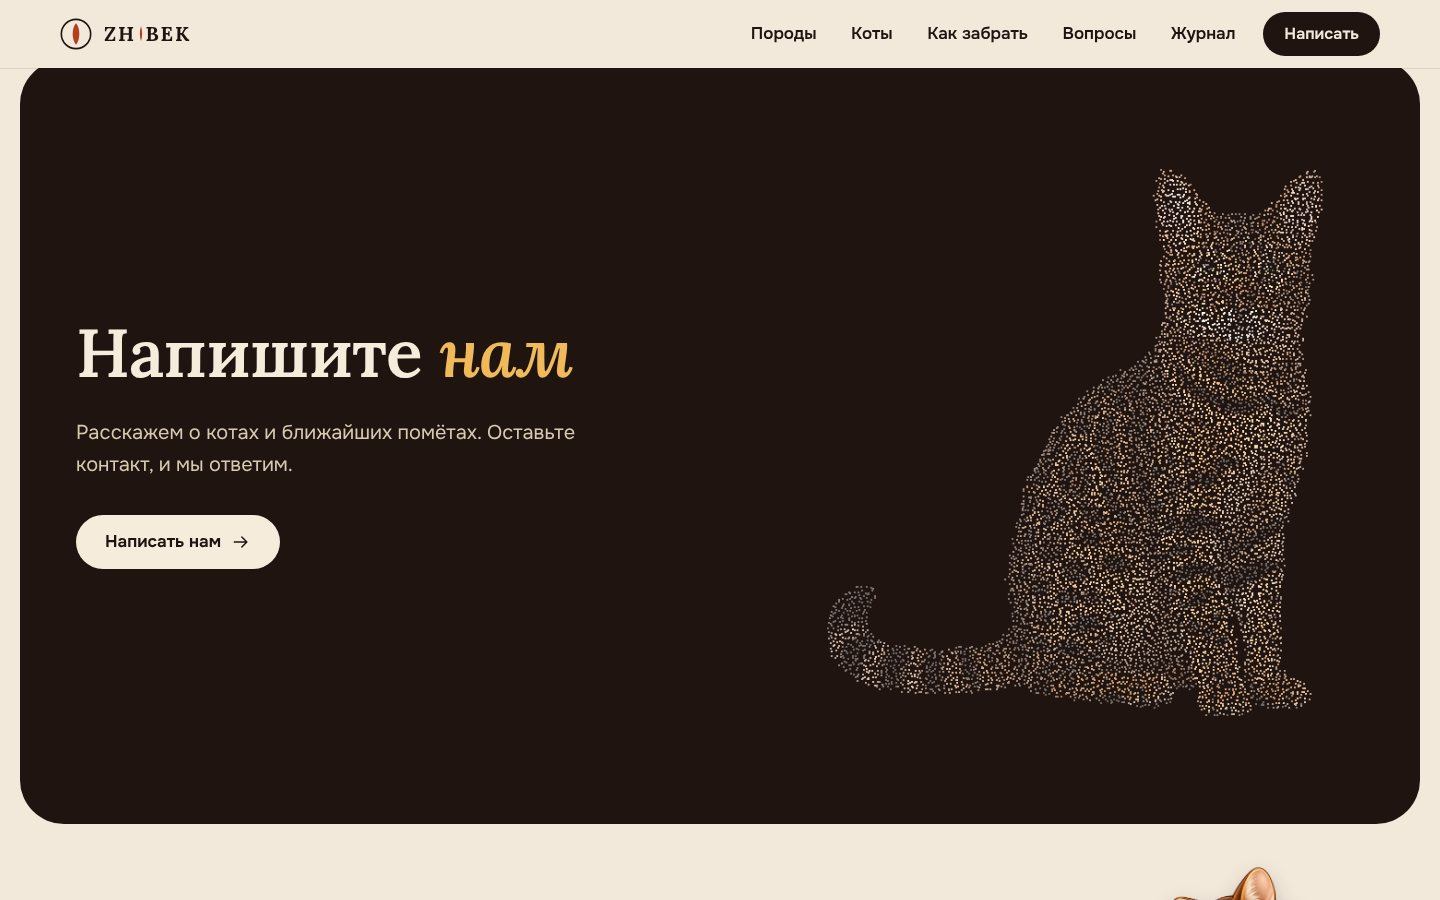
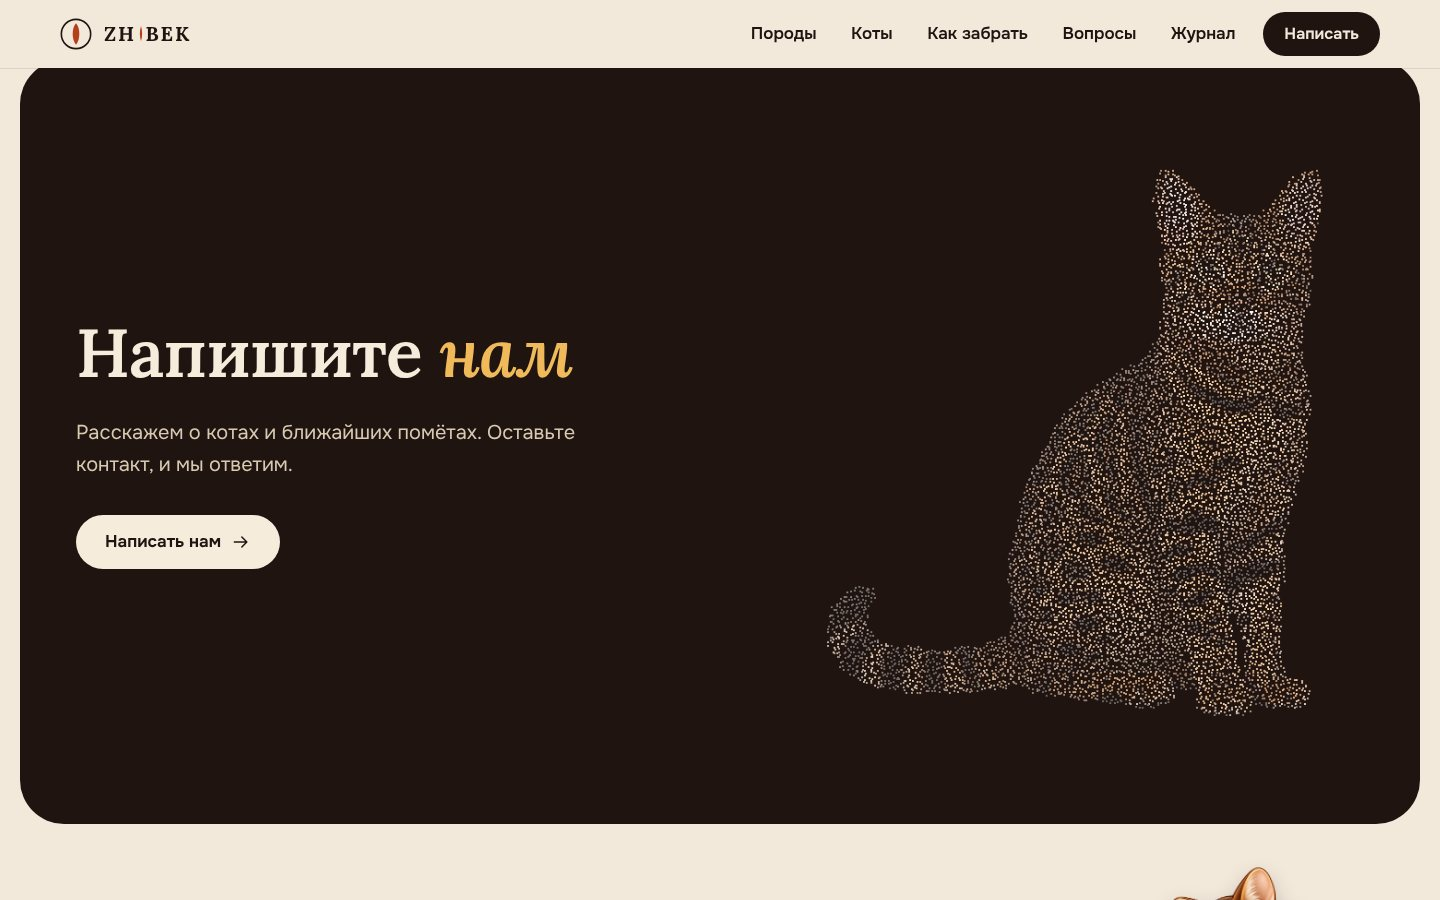
v5.3.1: сцена «Знакомьтесь: бенгал» компактнее
- панель сцены ограничена по высоте (до 660 px на десктопе) и центрируется в окне
- кадр с котом обрезан по коту, кот крупнее, пометки идут над ним
- прогресс анимации учитывает отступ закрепления панели
- на телефонах и планшетах кот подстраивается под свободное место, на низких экранах скрыты факты
- на странице бенгала сцена тоже компактнее; в режиме без анимаций высота не растягивается

Claude-Session: https://claude.ai/code/session_013VgWdjEkkgXXU5LJum1oY1

Changed region(s): [[0.5625, 0.1867, 0.9375, 0.8089]]

diff --git a/zhibek/theme/assets/css/home.css b/zhibek/theme/assets/css/home.css
@@ -309,7 +309,11 @@
 /* ------------------------------------------------------------ сцены: кот, привязанный к прокрутке */
 .scene { position: relative; height: 240vh; margin: 0 var(--pad-x) clamp(56px, 8vw, 112px); }
 .scene--right { height: 200vh; }
-.scene-sticky { position: sticky; top: calc(var(--header-h) + var(--wp-bar) + 8px); display: grid; height: calc(100vh - var(--header-h) - var(--wp-bar) - 16px); height: calc(100svh - var(--header-h) - var(--wp-bar) - 16px); min-height: 420px; overflow: hidden; border-radius: var(--r-xl); background: var(--bg); color: var(--on-dark); isolation: isolate; --p: 0; }
+.scene { --vh: 1vh; --avail: calc(100 * var(--vh) - var(--header-h) - var(--wp-bar)); --sh: max(540px, calc(var(--avail) - 16px)); }
+@supports (height: 100svh) { .scene { --vh: 1svh; } }
+@media (max-width: 899px) { .scene { --sh: clamp(540px, calc(var(--avail) - 16px), 820px); } }
+@media (min-width: 900px) { .scene { --sh: clamp(540px, calc(var(--avail) - 40px), 660px); } .scene--right { --sh: clamp(540px, calc(var(--avail) - 40px), 760px); } }
+.scene-sticky { position: sticky; top: calc(var(--header-h) + var(--wp-bar) + max(8px, (var(--avail) - var(--sh)) / 2)); display: grid; height: var(--sh); overflow: hidden; border-radius: var(--r-xl); background: var(--bg); color: var(--on-dark); isolation: isolate; --p: 0; }
 .scene-sticky::before { content: ''; position: absolute; z-index: -1; inset: -14%; background: radial-gradient(38% 46% at 76% 64%, var(--g1), transparent 70%), radial-gradient(34% 40% at 24% 100%, var(--g2), transparent 72%); filter: blur(34px); opacity: .5; mix-blend-mode: screen; animation: aura 10s ease-in-out infinite alternate; }
 .scene-text { position: relative; z-index: 2; padding: clamp(28px, 5vw, 72px); max-width: 680px; }
 .scene h2 { color: var(--on-dark); font-weight: 600; font-size: clamp(2.1rem, 4vw, 3.6rem); line-height: 1.12; }
@@ -336,7 +340,7 @@
 }
 /* расширенная сцена: слева факты о породе, справа кот и подписи, которые меняются вместе с его позой */
 .scene--rich { height: 250vh; }
-.scene--rich .scene-sticky { display: block; min-height: 540px; }
+.scene--rich .scene-sticky { display: block; }
 .scene--rich .scene-in { position: relative; display: grid; height: 100%; grid-template-columns: minmax(0, 1fr); grid-template-rows: auto minmax(0, 1fr); padding: clamp(22px, 3.4vw, 56px) clamp(22px, 4.5vw, 72px) 0; }
 .scene--rich .scene-text { max-width: none; margin: 0; padding: 0 0 clamp(18px, 2.4vw, 40px); text-align: left; align-self: center; }
 .scene--rich .scene-hook { display: inline-block; margin-bottom: 4px; font-size: clamp(1.35rem, 2vw, 1.9rem); line-height: 1; color: var(--gold); transform: rotate(-3deg); transform-origin: left center; }
@@ -352,7 +356,12 @@
 .js .scene--rich .scene-cta { opacity: 1; transform: none; pointer-events: auto; }
 .scene-stage { position: relative; align-self: end; min-width: 0; }
 .scene--rich .scene-cat { position: relative; left: auto; bottom: auto; transform: none; width: min(120%, 760px); margin-inline: auto; }
-.scene--bottom.scene--rich .scene-cat { left: auto; transform: none; width: min(125%, 760px); }
+/* бенгал снизу: кадр обрезан по коту (он занимает нижние две трети), пометки идут над ним */
+.scene--bottom.scene--rich .scene-stage { display: grid; align-content: end; }
+.scene--bottom.scene--rich .scene-notes { position: relative; left: auto; top: auto; order: -1; width: 100%; height: 4.4rem; }
+.scene--bottom.scene--rich .scene-note { left: 4%; }
+.scene--bottom.scene--rich .scene-cat { left: auto; transform: none; width: min(118%, 640px); margin-inline: calc((100% - min(118%, 640px)) / 2); aspect-ratio: 800 / 420; overflow: hidden; }
+.scene--bottom.scene--rich .scene-cat canvas, .scene--bottom.scene--rich .scene-cat img { position: absolute; left: 0; bottom: 0; width: 100%; height: auto; }
 .scene-notes { position: absolute; left: 0; top: 2%; z-index: 3; width: 52%; }
 .scene-note { position: absolute; left: 0; top: 0; display: grid; gap: 2px; max-width: 10.5em; margin: 0; font-family: var(--f-hand); font-size: clamp(1.35rem, 2.2vw, 2rem); line-height: 1.05; color: var(--gold); opacity: 0; transform: translateY(10px) rotate(-3deg); transition: opacity .45s var(--ease), transform .45s var(--ease); }
 .scene-note .hand-arrow { width: 42px; height: auto; transform: rotate(16deg); }
@@ -364,7 +373,9 @@
   .scene--rich .scene-in { grid-template-columns: minmax(0, .95fr) minmax(0, 1.05fr); grid-template-rows: none; gap: 0 clamp(16px, 3vw, 56px); align-items: stretch; }
   .scene--rich .scene-text { padding-bottom: clamp(28px, 3vw, 56px); }
   .scene-notes { top: 8%; }
-  .scene--bottom.scene--rich .scene-cat { width: min(115%, 760px); margin-right: -4%; margin-left: auto; }
+  .scene--bottom.scene--rich .scene-notes { height: 5.6rem; }
+  .scene--bottom.scene--rich .scene-note { left: 14%; }
+  .scene--bottom.scene--rich .scene-cat { width: min(128%, 960px); margin-right: -6%; margin-left: auto; }
 }
 @media (max-width: 899px) {
   .scene--rich { height: 230vh; }
@@ -374,8 +385,6 @@
   .scene-facts dd { font-size: .8125rem; }
   .scene--rich .scene-cta { margin-top: 14px; }
   .scene--rich .scene-cta .btn { min-height: 44px; padding-inline: 18px; }
-  .scene--bottom.scene--rich .scene-cat { width: 118%; margin-inline: -9%; }
-  .scene-notes { top: 0; width: 60%; }
 }
 /* сцена справа (страница породы): кот у правого края, слева текст, пометки между ними */
 .scene--right.scene--rich { height: 240vh; }
@@ -404,7 +413,7 @@
 }
 @media (max-width: 599px) and (max-height: 700px) { .scene--right .scene-facts { display: none; } }
 @media (min-width: 900px) {
-  .scene--right.scene--rich .scene-in { grid-template-columns: minmax(0, 1fr) var(--cw); gap: 0; --cw: min(1000px, 52vw, calc((100svh - var(--header-h) - var(--wp-bar) - 16px) * 1.3333)); }
+  .scene--right.scene--rich .scene-in { grid-template-columns: minmax(0, 1fr) var(--cw); gap: 0; --cw: min(1000px, 52vw, calc(var(--sh) * 1.3333)); }
   .scene--right.scene--rich .scene-text { padding-right: 16px; padding-bottom: clamp(28px, 3vw, 56px); }
   .scene--right.scene--rich .scene-facts { max-width: 34em; }
   .scene--right.scene--rich .scene-stage { width: var(--cw); justify-self: end; }
@@ -414,7 +423,21 @@
 }
 @media (min-width: 900px) and (max-width: 1099px) and (max-height: 760px) { .scene--right .scene-facts { display: none; } }
 @media (min-width: 900px) and (max-height: 820px) { .scene--right.scene--rich h2 { font-size: clamp(1.9rem, 3vw, 2.5rem); } .scene--right .scene-facts { margin-top: 14px; } }
-@media (prefers-reduced-motion: reduce) { .scene, .scene--right { height: auto; } .scene-sticky { position: relative; top: auto; height: auto; min-height: 520px; } .js .scene-cta { opacity: 1; transform: none; pointer-events: auto; } }
+@media (max-width: 599px) {
+  .scene--rich .scene-cta { gap: 8px; }
+  .scene--rich .scene-cta .btn { padding-inline: 14px; font-size: .875rem; }
+}
+@media (max-width: 899px) {
+  .scene--bottom.scene--rich .scene-stage { align-self: stretch; grid-template-rows: auto minmax(0, 1fr); min-height: 0; }
+  .scene--bottom.scene--rich .scene-cat { width: auto; height: 100%; max-width: none; margin-inline: 0; justify-self: center; }
+}
+@media (max-width: 899px) and (max-height: 720px) {
+  .scene--rich .scene-facts { display: none; }
+  .scene--rich h2 { font-size: 1.8rem; }
+  .scene--rich .lead { font-size: .9375rem; margin-top: 10px; }
+  .scene--rich .scene-cta { margin-top: 12px; }
+}
+@media (prefers-reduced-motion: reduce) { .scene, .scene--right, .scene--right.scene--rich { height: auto; } .scene-sticky { position: relative; top: auto; height: auto; min-height: 520px; } .js .scene-cta { opacity: 1; transform: none; pointer-events: auto; } }
 
 /* ------------------------------------------------------------ пустое состояние каталога */
 .empty-cats { position: relative; display: grid; align-items: center; min-height: 340px; padding: clamp(28px, 5vw, 64px); border-radius: var(--r-xl); background: var(--paper-2); overflow: hidden; }

diff --git a/zhibek/theme/assets/js/site.js b/zhibek/theme/assets/js/site.js
@@ -283,6 +283,7 @@
     if (!sticky || !canvas || !n || !canvas.getContext || sceneReduce || saveData) {
       scene.classList.add('is-end');
       const last = $$('.scene-note', scene); if (last.length) last[last.length - 1].classList.add('is-on');
+      $$('.scene-steps li', scene).forEach((el) => el.classList.add('is-on'));
       return;
     }
     const ctx = canvas.getContext('2d');
@@ -322,7 +323,8 @@
     const update = () => {
       const r = scene.getBoundingClientRect();
       const span = Math.max(1, r.height - sticky.offsetHeight);
-      const p = Math.max(0, Math.min(1, -r.top / span));
+      const pin = parseFloat(getComputedStyle(sticky).top) || 0; // панель закрепляется на этом расстоянии от верха окна
+      const p = Math.max(0, Math.min(1, (pin - r.top) / span));
       sticky.style.setProperty('--p', p.toFixed(3));
       scene.classList.toggle('is-end', p > 0.6);
       target = Math.max(1, Math.min(n, 1 + Math.round(p * (n - 1))));

diff --git a/zhibek/theme/style.css b/zhibek/theme/style.css
@@ -2,7 +2,7 @@
 Theme Name: ZHIBEK
 Author: ZHIBEK
 Description: Тема питомника кошек ZHIBEK: выбор породы, коты и котята, насыщенные цвета пород, анимации без библиотек, заявки, WooCommerce.
-Version: 5.3.0
+Version: 5.3.1
 Requires at least: 6.5
 Requires PHP: 8.0
 Text Domain: zhibek

diff --git a/zhibek/theme/functions.php b/zhibek/theme/functions.php
@@ -65,7 +65,7 @@ add_action('admin_notices', function () {
 add_action('wp_enqueue_scripts', function () {
     $u = get_template_directory_uri();
     $d = get_template_directory();
-    $v = function ($rel) use ($d) { $f = $d . '/assets/' . $rel; return is_file($f) ? (string) filemtime($f) : '5.3.0'; };
+    $v = function ($rel) use ($d) { $f = $d . '/assets/' . $rel; return is_file($f) ? (string) filemtime($f) : '5.3.1'; };
     // Стили внутренних страниц главной не нужны: меньше CSS, быстрее первая отрисовка на телефоне.
     $css = is_front_page() ? array('base', 'home') : array('base', 'home', 'inner');
     $prev = array();

diff --git a/zhibek/README.md b/zhibek/README.md
@@ -1,6 +1,6 @@
 # ZHIBEK — сайт питомника абиссинских, бенгальских и сиамских кошек
 
-Тема и плагин для WordPress, версия 5.3. Посетитель выбирает породу и видит котов этой породы: котят и взрослых вместе. Котов владелец добавляет сам. Без конструкторов страниц, библиотек анимации и внешних сервисов: шрифты, скрипт и картинки лежат внутри темы.
+Тема и плагин для WordPress, версия 5.3.1. Посетитель выбирает породу и видит котов этой породы: котят и взрослых вместе. Котов владелец добавляет сам. Без конструкторов страниц, библиотек анимации и внешних сервисов: шрифты, скрипт и картинки лежат внутри темы.
 
 **Название.** ZHIBEK (Жібек) по-казахски «шёлк». В логотипе буква I заменена вертикальным зрачком кошки.
 
